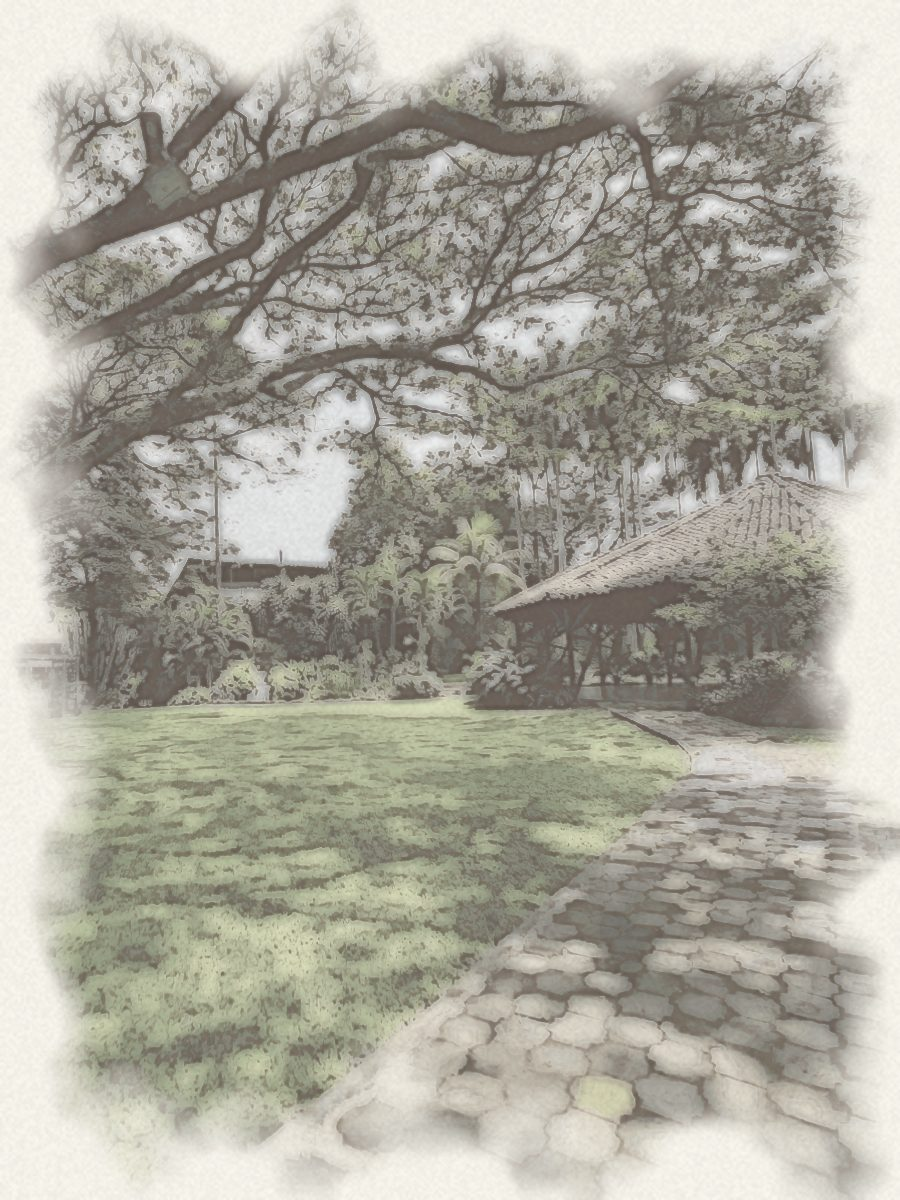
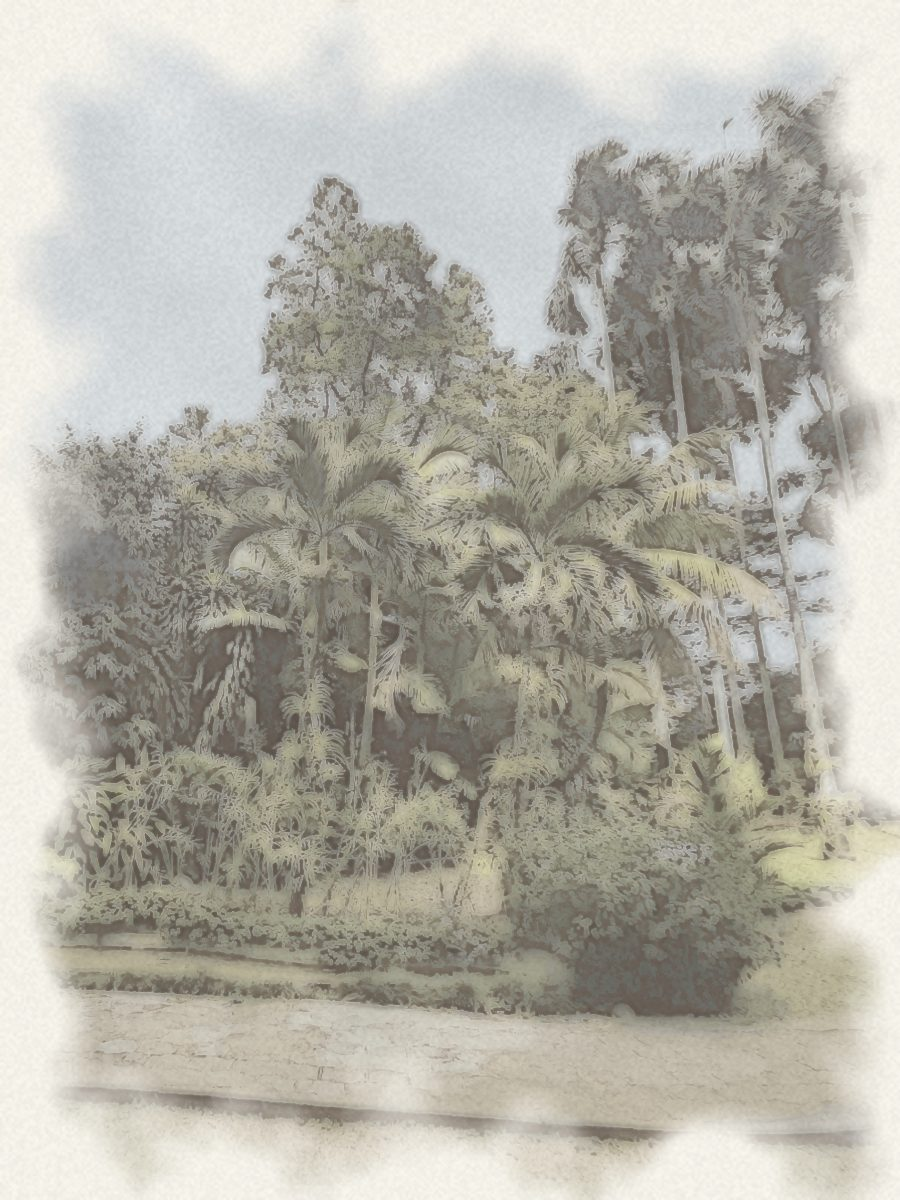
Lugar: Orquideorama, dirección e ilustración en acuarela del jardín
Claude-Session: https://claude.ai/code/session_011G5CpV5Tb8H3GwvrjKjAWQ

diff --git a/src/content/invitation.ts b/src/content/invitation.ts
@@ -76,10 +76,8 @@ export const invitation = {
   chapter4: {
     number: 'IV',
     label: 'Nuestro lugar de encuentro',
-    /** PENDIENTE: nombre del lugar. */
-    venueName: null as string | null,
-    /** PENDIENTE: dirección. */
-    address: null as string | null,
+    venueName: 'Orquideorama' as string | null,
+    address: 'Av. 2 Nte. #48, Olaya Herrera, Cali, Valle del Cauca' as string | null,
     /** PENDIENTE: enlace de Google Maps (p. ej. https://maps.app.goo.gl/...). */
     mapsUrl: 'https://maps.app.goo.gl/BF4CZeqT5JXgYqsJ8' as string | null,
     directionsButton: 'Cómo llegar',
